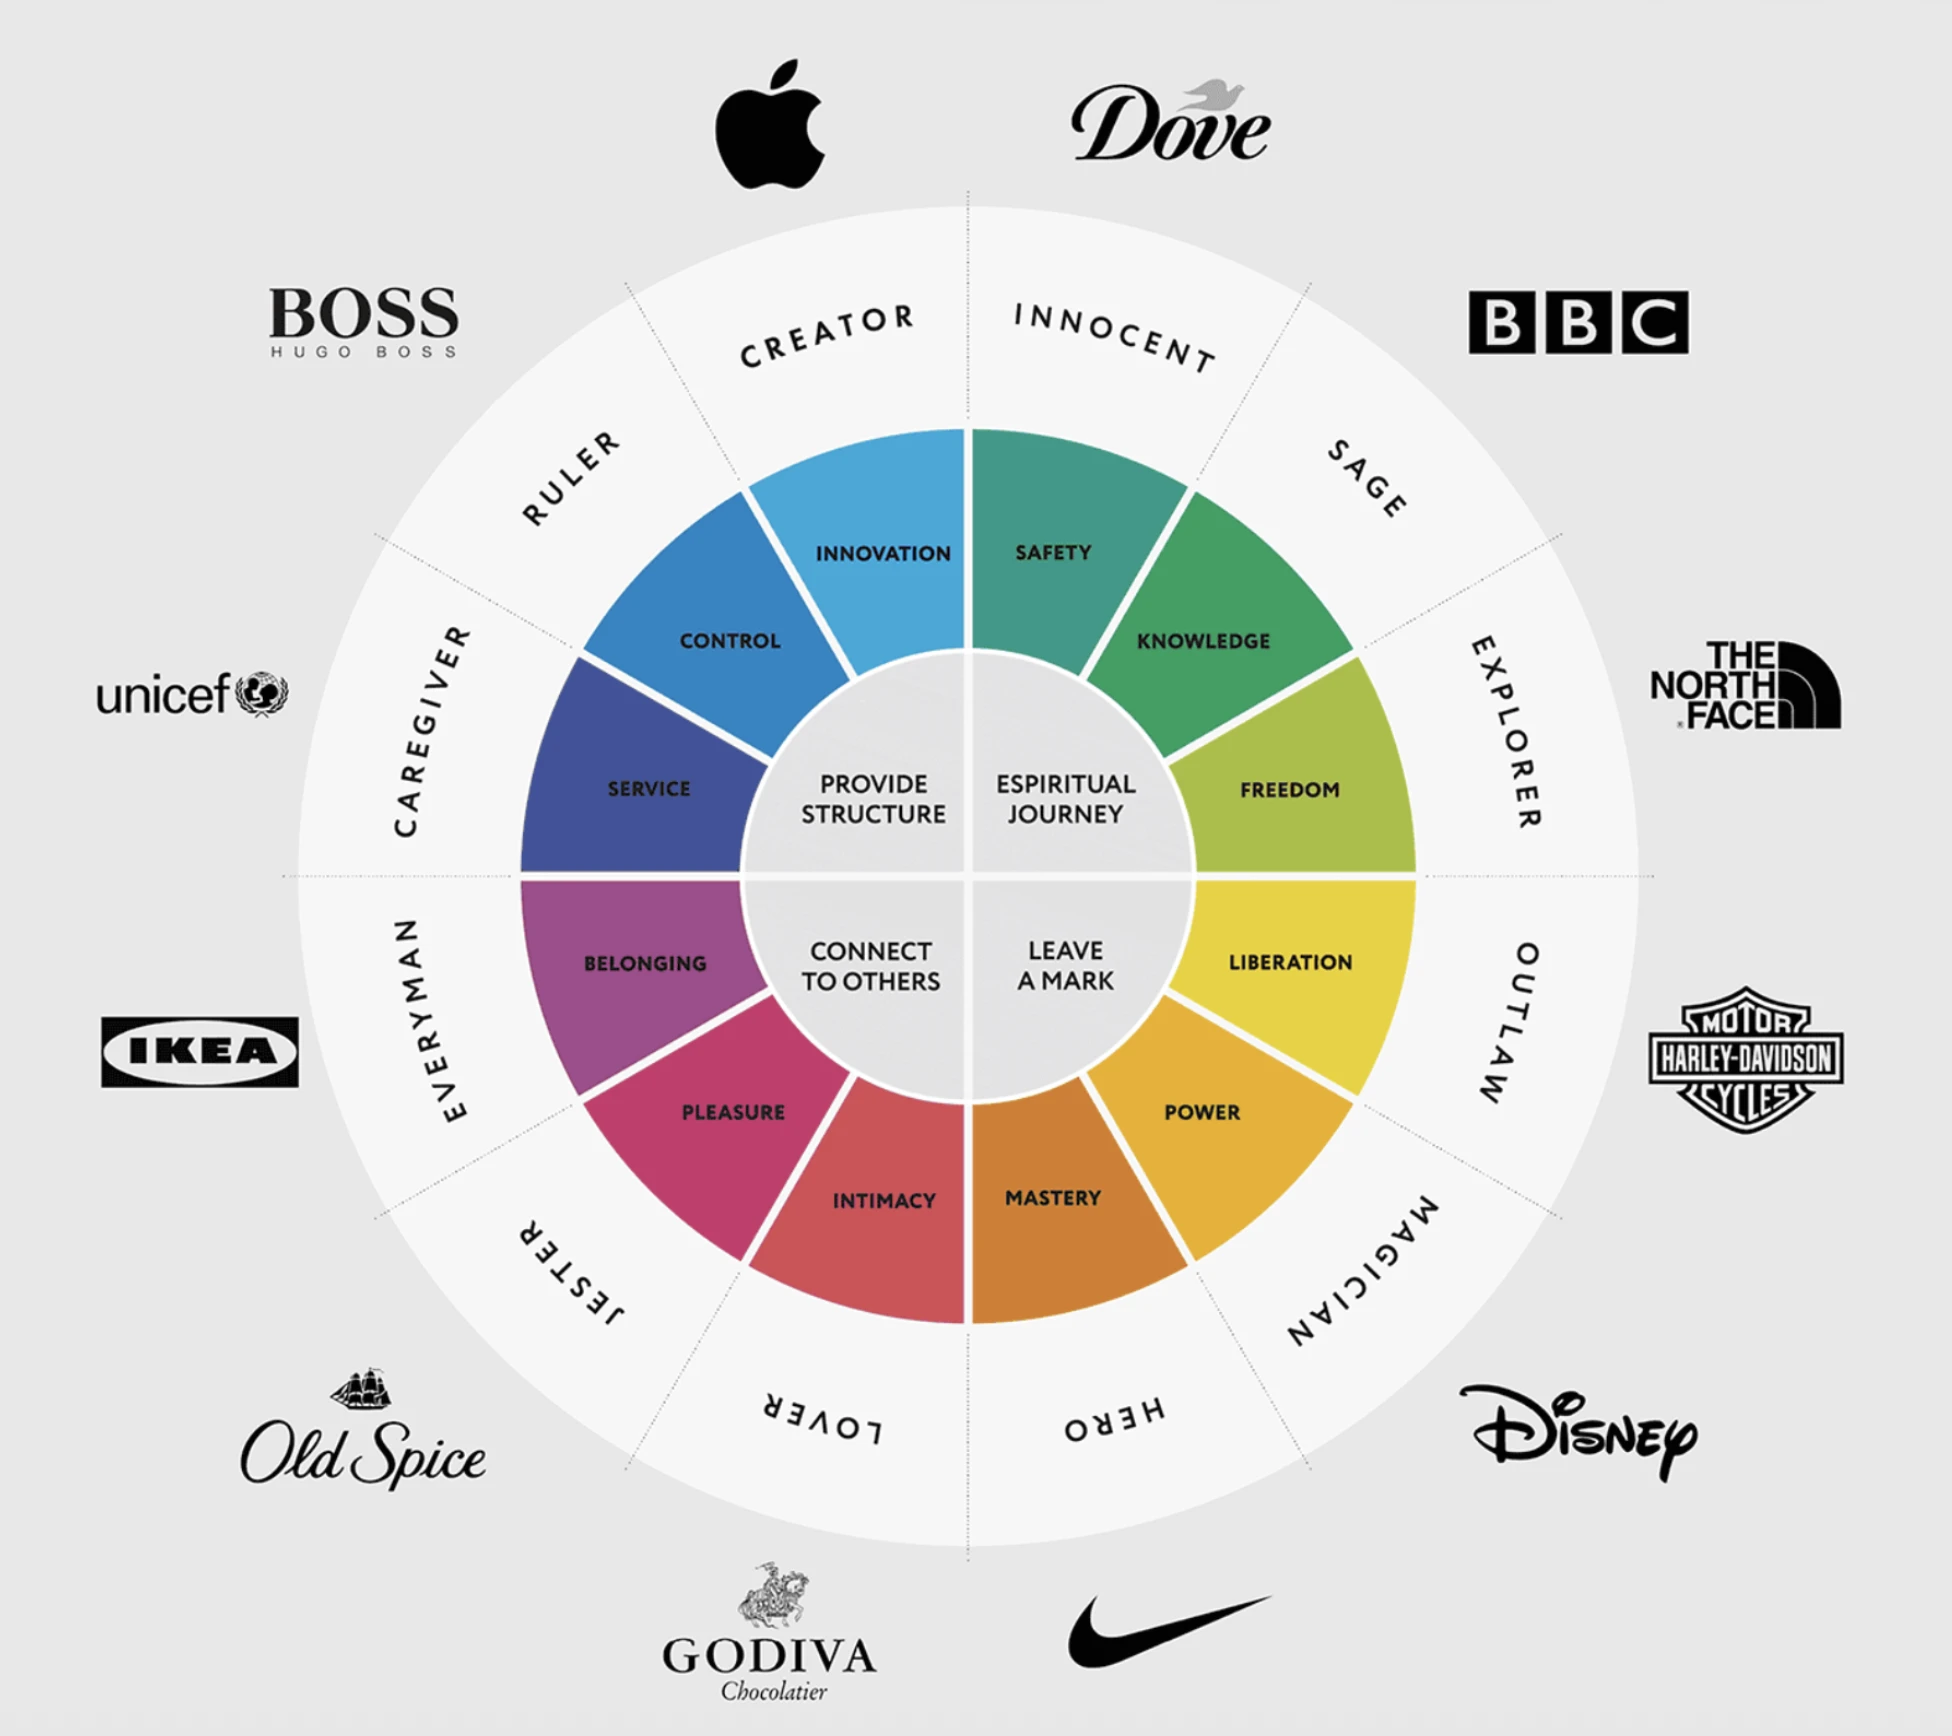
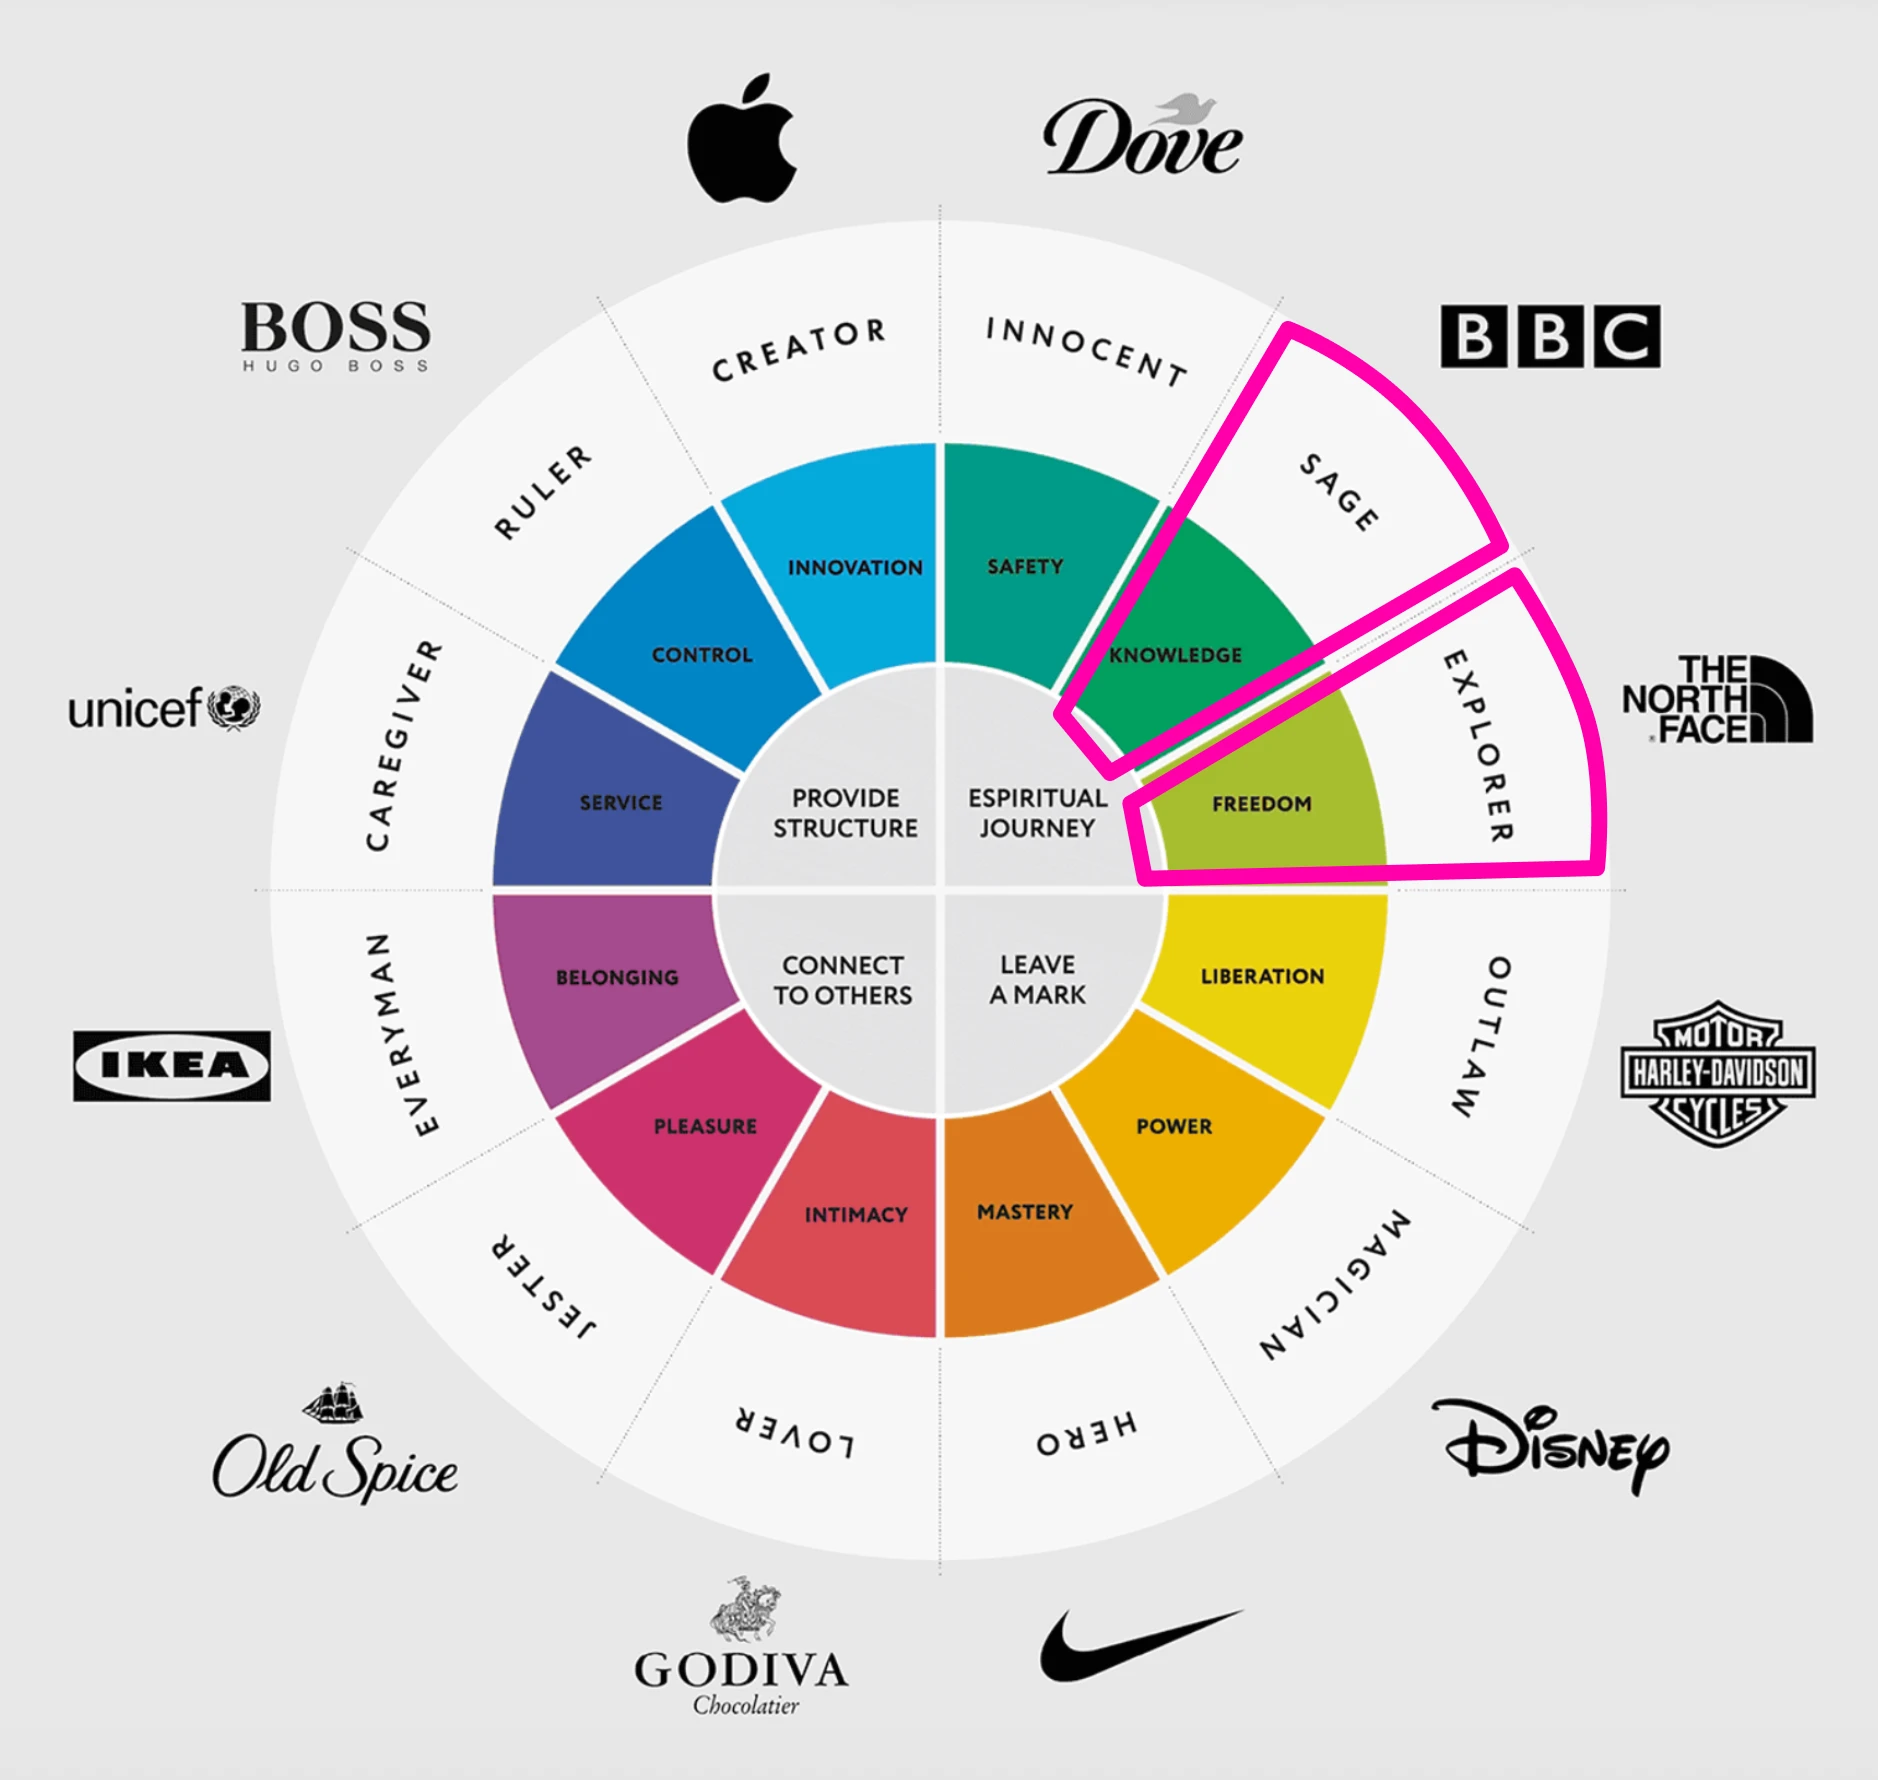
KitOps: replace archetype wheel with highlighted version

diff --git a/case-study-kitops.html b/case-study-kitops.html
@@ -289,7 +289,7 @@
       </div>
     </div>
 
-    <figure class="archetypes"><div class="frame"><img src="media/kitops/brand-archetypes.webp" alt="Brand archetype wheel with twelve archetypes, from Creator and Innocent to Hero and Lover, grouped by four core drives and paired with example brands such as Apple, Dove, the BBC, Disney, and Nike" loading="lazy" width="1952" height="1736"></div></figure>
+    <figure class="archetypes"><div class="frame"><img src="media/kitops/brand-archetypes.webp" alt="Brand archetype wheel with twelve archetypes, from Creator and Innocent to Hero and Lover, grouped by four core drives and paired with example brands such as Apple, Dove, the BBC, Disney, and Nike, with the Sage and Explorer archetypes highlighted in pink" loading="lazy" width="1878" height="1780"></div></figure>
 
     <div class="quote">
       <p class="big">"KitOps is the calm expert in the room, turning chaotic ML workflows into secure, reproducible systems."</p>
